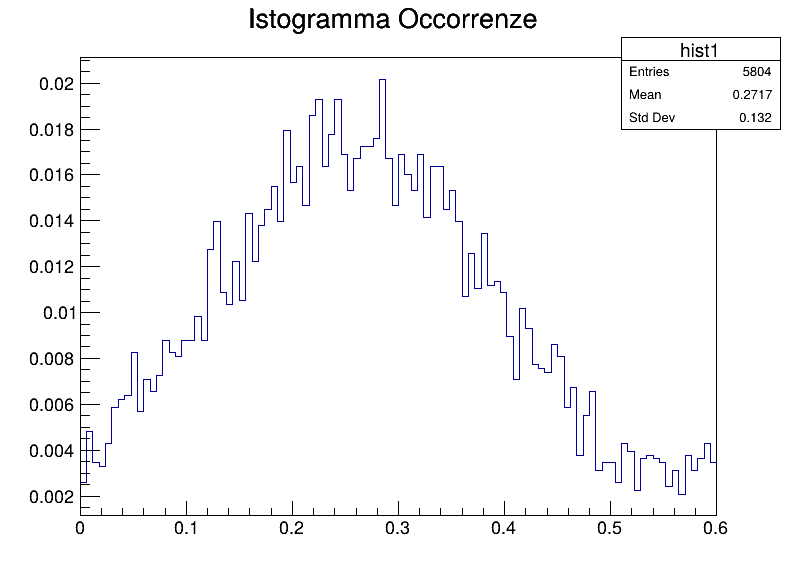
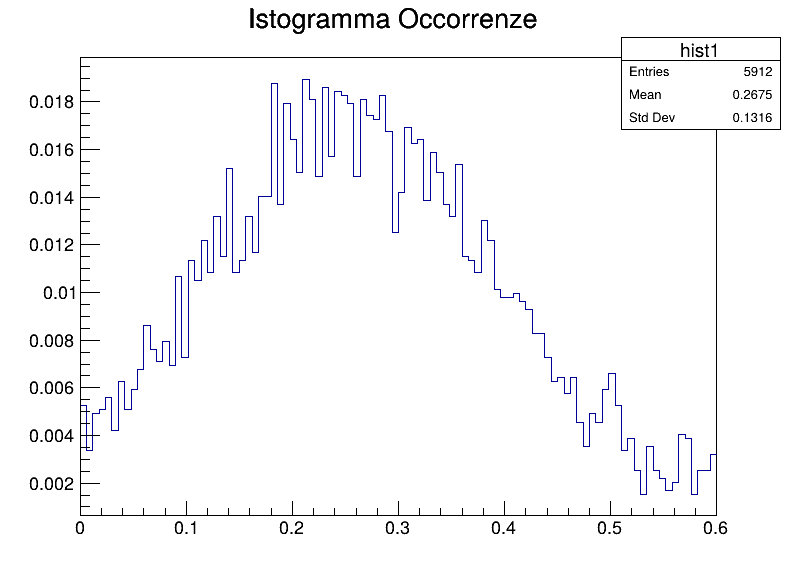
modifiche

diff --git a/lab1/root_macro.C b/lab1/root_macro.C
@@ -3,12 +3,12 @@
 #include <TCanvas.h>
 #include <TF1.h>
 #include <TFile.h>
+#include <TFitResult.h>
 #include <TH1F.h>
 #include <TRandom.h>
+#include <fstream>
 #include <iostream>
 #include <vector>
-#include <fstream>
-#include <TFitResult.h>
 
 class macro {
   double k_;
@@ -44,7 +44,8 @@ class macro {
   }
 
   TH1F* random_generation_hist(int n, int b, TF1* f = nullptr) {
-    if (!f) f = cos_function();
+    if (!f)
+      f = cos_function();
     std::vector<double> vx;
     int entries = 0;
     for (int i = 0; i < n; ++i) {
@@ -102,7 +103,7 @@ class macro {
     c5->SaveAs("cos_scalato.png");
   }
 
-  struct bin_mean_sigma{
+  struct bin_mean_sigma {
     std::vector<double> media;
     std::vector<double> sigma;
   };
@@ -134,7 +135,7 @@ class macro {
       gSigma->SetPoint(i, i, media[i]);
       gSigma->SetPointError(i, 0., sigma[i]); // Argomenti: pos in lista, x, y
     }
-    
+
     TCanvas* c = new TCanvas("c_sigma", "Incertezze per bin", 800, 600);
     gSigma->SetTitle("Fluttuazioni bin; Bin; Deviazione standard");
     gSigma->SetMarkerStyle(20);
@@ -144,17 +145,17 @@ class macro {
     return {media, sigma};
   }
 
-  void binSmearing(int b = 50, int gauss=30) {
+  void binSmearing(int b = 50, int gauss = 30) {
     bin_mean_sigma bin = rigenerazione_incertezze();
     std::vector<double> g_media(b, 0.0);
     std::vector<double> g_media_2(b, 0.0);
     std::vector<double> g_sigma(b, 0.0);
- 
+
     for (int i{0}; i < b; ++i) {
       for (int j{0}; j < gauss; ++j) {
         double bincontent = gRandom->Gaus(bin.media[i], bin.sigma[i]);
-        g_media[i]+=bincontent;
-        g_media_2[i]+= bincontent * bincontent;
+        g_media[i] += bincontent;
+        g_media_2[i] += bincontent * bincontent;
       }
       g_media[i] /= gauss;
       g_media_2[i] /= gauss;
@@ -171,16 +172,16 @@ class macro {
     // cosScaled_g->SetParameter(3, 1 / cosInt);
 
     for (int i{0}; i < n_generazioni; ++i) {
-    double k = gRandom->Gaus(k_, k_*0.01);
-    double phi = gRandom->Gaus(phi_, phi_*0.05);
-    double b = gRandom->Gaus(b_, b_*0.01);
-    
-    TF1* cos_g = new TF1("Funzione coseno", "[3]*((cos([0]*x + [1]))^2 + [2])", 0., 0.6);
-    cos_g->SetParameters(k, phi, b);
-    double cosInt = cos_g->Integral(0., 0.6);
-    TF1* cosScaled_g = (TF1*)(cos_g->Clone("cosScaled_g"));
-    cosScaled_g->SetParameter(3, 1 / cosInt);
-    hist_list.push_back(random_generation_hist(n_eventi, bins, cosScaled_g));
+      double k   = gRandom->Gaus(k_, k_ * 0.01);
+      double phi = gRandom->Gaus(phi_, phi_ * 0.05);
+      double b   = gRandom->Gaus(b_, b_ * 0.01);
+
+      TF1* cos_g = new TF1("Funzione coseno", "[3]*((cos([0]*x + [1]))^2 + [2])", 0., 0.6);
+      cos_g->SetParameters(k, phi, b);
+      double cosInt    = cos_g->Integral(0., 0.6);
+      TF1* cosScaled_g = (TF1*)(cos_g->Clone("cosScaled_g"));
+      cosScaled_g->SetParameter(3, 1 / cosInt);
+      hist_list.push_back(random_generation_hist(n_eventi, bins, cosScaled_g));
     }
 
     std::vector<double> media(bins, 0.0);
@@ -203,7 +204,7 @@ class macro {
       gSigma->SetPoint(i, i, media[i]);
       gSigma->SetPointError(i, 0., sigma[i]); // Argomenti: pos in lista, x, y
     }
-    
+
     TCanvas* c6 = new TCanvas("c_sigma_g", "Incertezze per bin con parametri aleatori", 800, 600);
     gSigma->SetTitle("Fluttuazioni bin; Bin; Deviazione standard");
     gSigma->SetMarkerStyle(20);
@@ -214,7 +215,7 @@ class macro {
   void fit() {
     TF1* cos = new TF1("Funzione coseno", "[3]*((cos([0]*x + [1]))^2 + [2])", 0., 0.6);
     cos->SetParameters(k_, phi_, b_);
-    TH1F *hist = random_generation_hist(10000, 50);
+    TH1F* hist = random_generation_hist(10000, 50);
 
     // Fit con parametri liberi
     auto freepar = hist->Fit(cos, "RSQ");
@@ -229,8 +230,11 @@ class macro {
     int statusfree = freepar->Status();
     int statusfix  = fixpar->Status();
 
+    std::cout << "residuo: " << residuo(cos1, hist) << '\n';
+
+
     std::ofstream ofs("Fit.md");
-    if(!ofs.is_open()){
+    if (!ofs.is_open()) {
       std::cout << "Errore apertura file\n";
       return;
     }
@@ -250,11 +254,7 @@ class macro {
     ofs << "|:------:|:------|:------:|:------:|\n";
     for (int i = 0; i < npar_free; ++i) {
       const char* pname = cos->GetParName(i) ? cos->GetParName(i) : "";
-      ofs << "| " << i 
-          << " | " << pname 
-          << " | " << cos->GetParameter(i) 
-          << " | " << cos->GetParError(i) 
-          << " |\n";
+      ofs << "| " << i << " | " << pname << " | " << cos->GetParameter(i) << " | " << cos->GetParError(i) << " |\n";
     }
 
     ofs << "\n---\n\n";
@@ -271,31 +271,38 @@ class macro {
     ofs << "|:------:|:------|:------:|:------:|\n";
     for (int i = 0; i < npar_fix; ++i) {
       const char* pname = cos1->GetParName(i) ? cos1->GetParName(i) : "";
-      ofs << "| " << i 
-          << " | " << pname 
-          << " | " << cos1->GetParameter(i) 
-          << " | " << cos1->GetParError(i) 
-          << " |\n";
+      ofs << "| " << i << " | " << pname << " | " << cos1->GetParameter(i) << " | " << cos1->GetParError(i) << " |\n";
     }
 
     ofs.close();
   }
 
+  double residuo(TF1* cos, TH1F* hist, int b = 50) {
+    double diff;
+    for (int i = 0; i < b; ++i) {
+      double xlow        = hist->GetBinLowEdge(i + 1);
+      double xup         = hist->GetBinLowEdge(i + 2);
+      double cosIntegral = cos->Integral(xlow, xup);
+      double mean        = cosIntegral / (xup - xlow);
 
-    void draw() {
-      TCanvas* c1 = new TCanvas("c1", "Funzione coseno", 800, 600);
-      cos_function()->SetTitle("Funzione");
-      cos_function()->Draw();
-      c1->SaveAs("grafico.png");
-
-      TCanvas* c2 = new TCanvas("c2", "Estrazione punti", 800, 600);
-      random_generation_graph(10000)->Draw("AP");
-      c2->SaveAs("punti.png");
-
-      TCanvas* c3 = new TCanvas("c3", "Istogramma", 800, 600);
-      random_generation_hist(10000, 50)->Draw();
-      // cos_function()->Draw();
-      c3->SaveAs("istogramma.png");
+      diff += std::pow(mean - hist->GetBinContent(i + 1), 2);
     }
-};
+    return std::sqrt(diff);
+  }
 
+  void draw() {
+    TCanvas* c1 = new TCanvas("c1", "Funzione coseno", 800, 600);
+    cos_function()->SetTitle("Funzione");
+    cos_function()->Draw();
+    c1->SaveAs("grafico.png");
+
+    TCanvas* c2 = new TCanvas("c2", "Estrazione punti", 800, 600);
+    random_generation_graph(10000)->Draw("AP");
+    c2->SaveAs("punti.png");
+
+    TCanvas* c3 = new TCanvas("c3", "Istogramma", 800, 600);
+    random_generation_hist(10000, 50)->Draw();
+    // cos_function()->Draw();
+    c3->SaveAs("istogramma.png");
+  }
+};

diff --git a/lab1/root_main.cpp b/lab1/root_main.cpp
@@ -6,7 +6,7 @@ int main(int arcg, char** argv) {
     test.draw();
     test.accordo(10000, 100);
     test.rigenerazione_incertezze();
-    // test.binSmearing();
+    test.binSmearing();
     test.gaussian_parameters();
     test.fit();
     

diff --git a/lab1/Fit.md b/lab1/Fit.md
@@ -4,14 +4,14 @@
 
 - **Status:** 0
 - **Funzione:** `Funzione coseno`
-- **Chi² / NDF:** 68.015 / 46
+- **Chi² / NDF:** 43.0586 / 46
 
 | Index | Name | Value | Error |
 |:------:|:------|:------:|:------:|
-| 0 | p0 | 5.25558 | 0.0901838 |
-| 1 | p1 | 1.79051 | 0.0271779 |
-| 2 | p2 | 0.200021 | 0.0151685 |
-| 3 | p3 | 167.139 | 4.00333 |
+| 0 | p0 | 5.11528 | 0.0974201 |
+| 1 | p1 | 1.81088 | 0.0285768 |
+| 2 | p2 | 0.189169 | 0.0163199 |
+| 3 | p3 | 164.657 | 3.93437 |
 
 ---
 
@@ -19,11 +19,11 @@
 
 - **Status:** 0
 - **Funzione:** `Funzione coseno`
-- **Chi² / NDF:** 68.6698 / 49
+- **Chi² / NDF:** 44.9233 / 49
 
 | Index | Name | Value | Error |
 |:------:|:------|:------:|:------:|
 | 0 | p0 | 5.2 | 0 |
 | 1 | p1 | 1.8 | 0 |
 | 2 | p2 | 0.2 | 0 |
-| 3 | p3 | 165.98 | 2.17281 |
+| 3 | p3 | 163.868 | 2.15895 |
